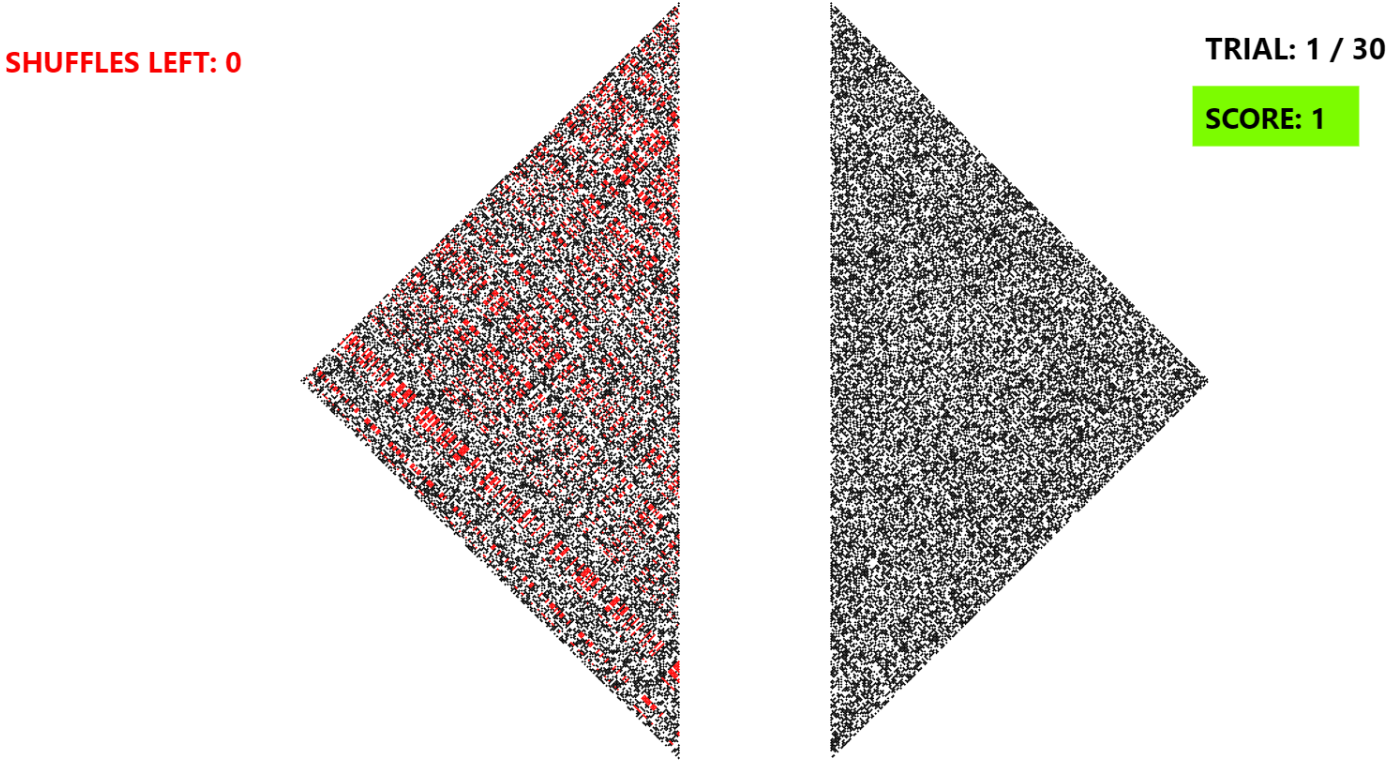
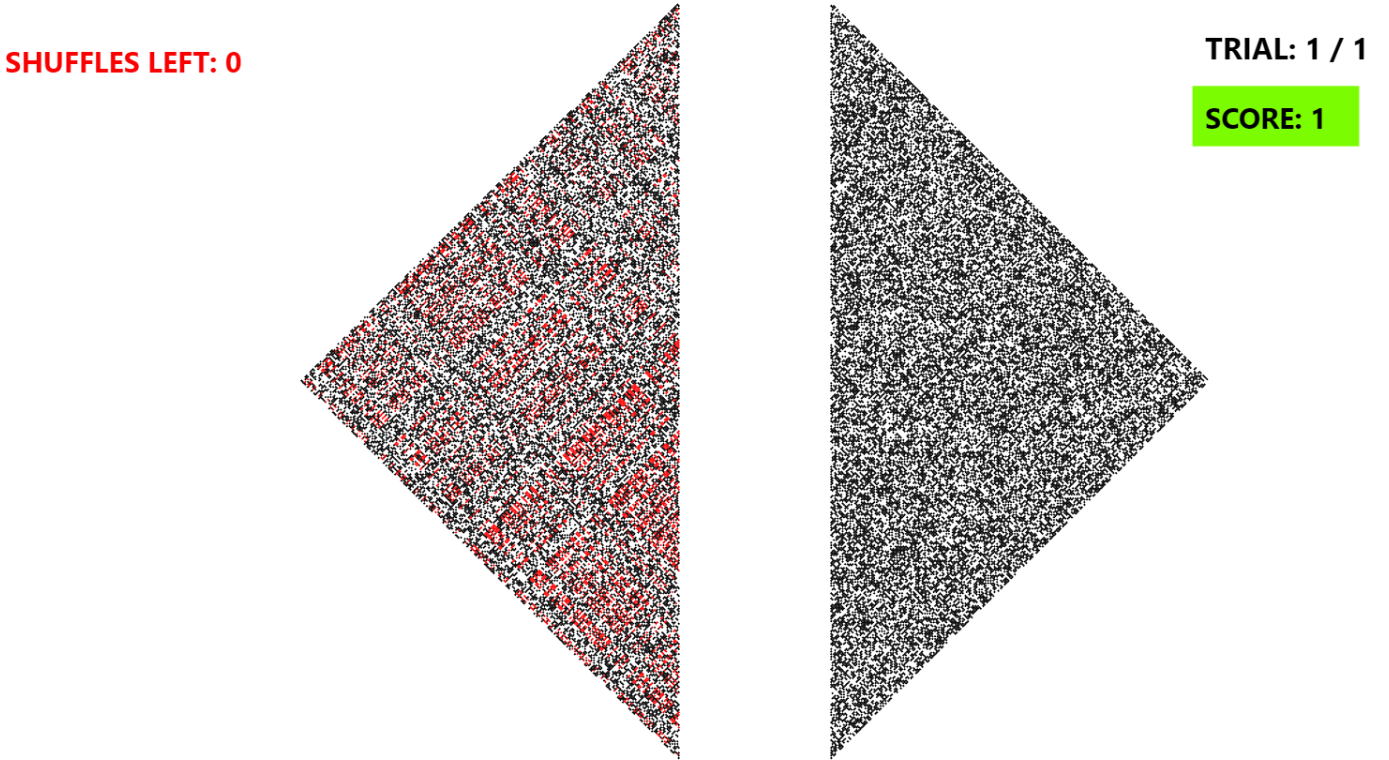
modified task familiarization II

Changed region(s): [[0.5882, 0.0, 0.8668, 0.9987], [0.2167, 0.0, 0.4953, 0.9987], [0.9597, 0.0303, 1.0, 0.0908]]

diff --git a/tutorial/tutorial_pages_generation.js b/tutorial/tutorial_pages_generation.js
@@ -179,71 +179,66 @@ let taskFamiliarizationObject_part2 = {
     In every group of four images:
     1: visualization trial n. 1 (image: 2 moves left; orange score)
     2: visualization trial n. 2 (image: 1 moves left; orange score)
-    3: choice trial (image: no move left; orange score)
-    4: solution trial (image: 0 move left; orange score; red clique)
-    5: feedback trial (image: 2 moves left; red/green score)
+    3: choice trial (image: no moves left; orange score)
+    4: feedback trial (image: 0 moves left; red/green score)
     */
 
     // with background information
     // N300_K120
-    1: ["During the real experiment, you will see the remaining <b>shuffles</b> on the top-left and your <b>score</b> on the top-right.<br> By pressing <b>space</b>, you use one shuffle.", "1_300_120_cliqueLeft_withFeedback_1"],
-    2: ["<b>Shuffles</b> will help you in the task, but you will only have 10 for each couple of graphs. If you run out of them, you will be forced to give an answer.<br> Press <b>space</b> again to use the last shuffle", "2_300_120_cliqueLeft_withFeedback_2"],
-    3: ["To indicate which of the triangles had the group of tiles,<br> Press the <b>left</b> or <b>right</b> arrow.", "3_300_120_cliqueLeft_withFeedback_3"],
-    4: ["As you can see, the <b>left</b> triangle contained the red tiles.<br> Press <b>space</b> to see the feedback for your response.", "4_300_120_cliqueLeft_withFeedback_solution"],
-    5: ["ArrowLeft", // correct answer: ArrowLeft
+    1: ["During the real experiment, you will see: the remaining <b>shuffles</b> on the top-left; the <b>trial counter</b> and your <b>score</b> on the top-right.<br> By pressing <b>space</b>, you use one shuffle.", "01_300_120_cliqueLeft_withFeedback_1"],
+    2: ["<b>Shuffles</b> will help you in the task, but will be limited. When you run out of them, you will be forced to give an answer.<br> Press <b>space</b> again to use the last shuffle of the trial.", "02_300_120_cliqueLeft_withFeedback_2"],
+    3: ["To indicate which of the triangles had the group of tiles,<br> Press the <b>left</b> or <b>right</b> arrow.", "03_300_120_cliqueLeft_withFeedback_3"],
+    4: ["ArrowLeft", // correct answer: ArrowLeft
         //PROMPT:
         //correct answer
-        "Since your answer was <b>correct</b>, the score has increased and has turned green.<br> Press <b>space</b> to try another example.",
+        "As you can see, the <b>left</b> triangle contained the red tiles. When your answer is <b>correct</b>, the score increases and turns green.<br> Press <b>space</b> to start a new example.",
         //wrong answer
-        "Since your answer was <b>wrong</b>, the score has not increased and has turned red.<br> Press <b>space</b> to try another example.",
+        "As you can see, the <b>left</b> triangle contained the red tiles. When your answer is <b>wrong</b>, the score does not increase and turns red.<br> Press <b>space</b> to start a new example.",
         //IMAGE:
         //correct answer
-        "5_300_120_cliqueLeft_withFeedback_correctAnswer",
+        "04_300_120_cliqueLeft_withFeedback_correct",
         //wrong answer
-        "5_300_120_cliqueLeft_withFeedback_wrongAnswer",
+        "04_300_120_cliqueLeft_withFeedback_wrong",
     ],
     // N300_K95
-    6: ["Let's re-set the remaining <b>shuffles</b> and the <b>score</b> to their initial values.<br> As we said, by pressing <b>space</b>, you use one shuffle.", "6_300_95_cliqueRight_withFeedback_1"],
-    7: ["Now you only have two <b>shuffles</b>, but in the real experiment you will have 10 shuffles for each couple of graphs.<br> Press <b>space</b> again to use the last shuffle.", "7_300_95_cliqueRight_withFeedback_2"],
-    8: ["When you have taken a decision, indicate which triangle contained the red tiles.<br> Press the <b>left</b> or <b>right</b> arrow to do so.", "8_300_95_cliqueRight_withFeedback_3"],
-    9: ["As you can see, the <b>right</b> triangle contained the red tiles.<br> Press <b>space</b> to see the feedback for your response.", "9_300_95_cliqueRight_withFeedback_solution"],
-    10: ["ArrowRight", // correct answer: ArrowRight
+    5: ["Let's re-set the remaining <b>shuffles</b> and the <b>score</b> to their initial values and colors.<br> As we said, by pressing <b>space</b>, you use one shuffle.", "05_300_95_cliqueRight_withFeedback_1"],
+    6: ["Now you only have <b>2 shuffles per trial</b>, but in the real experiment you will have <b>10</b>.<br> Press <b>space</b> again to use the last shuffle of the trial.", "06_300_95_cliqueRight_withFeedback_2"],
+    7: ["When you have taken a decision, indicate which triangle contained the red tiles.<br> Press the <b>left</b> or <b>right</b> arrow to do so.", "07_300_95_cliqueRight_withFeedback_3"],
+    8: ["ArrowRight", // correct answer: ArrowRight
         //PROMPT:
         //correct answer
-        "Since your answer was <b>correct</b>, the score has increased and has turned green.<br> Press <b>space</b> to try one last example.",
+        "In this case, the <b>right</b> triangle contained the red tiles. When your answer is <b>correct</b>, the score increases and turns green.<br> Press <b>space</b> to start the last example.",
         //wrong answer
-        "Since your answer was <b>wrong</b>, the score has not increased and has turned red.<br> Press <b>space</b> to try one last example.",
+        "In this case, the <b>right</b> triangle contained the red tiles. When your answer is <b>wrong</b>, the score does not increase turns red.<br> Press <b>space</b> to start the last example.",
         //IMAGE:
         //correct answer
-        "10_300_95_cliqueRight_withFeedback_correctAnswer",
+        "08_300_95_cliqueRight_withFeedback_correct",
         //wrong answer
-        "10_300_95_cliqueRight_withFeedback_wrongAnswer",
+        "08_300_95_cliqueRight_withFeedback_wrong",
     ],
     // N300_K100
-    11: ["This is the last example before the real experiment starts. Same as before: <b>shuffles</b> on the top left, score on the top right.<br> Press <b>space</b> to use one shuffle.", "11_300_100_cliqueLeft_withFeedback_1"],
-    12: ["As you <b>shuffle</b> the triangles, try to identify which one had the group of red tiles.<br> Press <b>space</b> again to use the last shuffle", "12_300_100_cliqueLeft_withFeedback_2"],
-    13: ["When you are ready to indicate which of the triangles had the group of tiles,<br> Press the <b>left</b> or <b>right</b> arrow.", "13_300_100_cliqueLeft_withFeedback_3"],
-    14: ["In this case, the <b>left</b> triangle contained the red tiles.<br> Press <b>space</b> to see the feedback for your response.", "14_300_100_cliqueLeft_solution"],
-    15: ["ArrowLeft", // correct answer: ArrowLeft
+    9: ["This is the last example. Same as before: <b>shuffles</b> on the top left, <b>trial counter</b> and <b>score</b> on the top right.<br> Press <b>space</b> to use one shuffle.", "09_300_100_cliqueLeft_withFeedback_1"],
+    10: ["As you <b>shuffle</b> the triangles, try to identify which one had the group of red tiles.<br> Press <b>space</b> again to use the last shuffle of the trial.", "10_300_100_cliqueLeft_withFeedback_2"],
+    11: ["When you are ready to indicate which of the triangles had the group of tiles,<br> Press the <b>left</b> or <b>right</b> arrow.", "11_300_100_cliqueLeft_withFeedback_3"],
+    12: ["ArrowLeft", // correct answer: ArrowLeft
         //PROMPT:
         //correct answer
-        "Since your answer was <b>correct</b>, the score has increased and has turned green.<br> Press <b>space</b> to end the trial run of the experiment.",
+        "In this case, the <b>left</b> triangle contained the red tiles. When your answer is <b>correct</b>, the score increases and turns green.<br> Press <b>space</b> to end the trial run of the experiment.",
         //wrong answer
-        "Since your answer was <b>wrong</b>, the score has not increased and has turned red.<br> Press <b>space</b> to end the trial run of the experiment.",
+        "In this case, the <b>left</b> triangle contained the red tiles. When your answer is <b>wrong</b>, the score does not increase and turns red.<br> Press <b>space</b> to end the trial run of the experiment.",
         //IMAGE:
         //correct answer
-        "15_300_100_cliqueLeft_correctAnswer",
+        "12_300_100_cliqueLeft_withFeedback_correct",
         //wrong answer
-        "15_300_100_cliqueLeft_wrongAnswer",
+        "12_300_100_cliqueLeft_withFeedback_wrong",
     ]
-
 }
 
 
 // FUNCTION THAT GENERATES THE FAMILIARIZATION TRIALS FOR PART 1 AND PART 2 (all except feedback trial, added from main)
 function generateBlockOfFamiliarizationTrials(part, index, taskFamiliarizationObject) {
     /* INPUT:
-    - part: identifies if the familiarization trials are produced for part 1 (3 trials for each block) or 2 (4 trials for each block)
+    - part: identifies if the familiarization trials are produced for part 1 or 2
     - index: identifies the number of the block of trials (first call: trials 1-3 (part 1) / 1-4 (part 2); second call: trials 5-7 (part 1) / 6...)
     - taskFamiliarizationObject: taskFamiliarizationObject_part1/_part2
 
@@ -283,17 +278,6 @@ function generateBlockOfFamiliarizationTrials(part, index, taskFamiliarizationOb
     };
     currentBlockOfTrialsArray.push(choice_trial)
 
-    // if function is called for part 2, the solution trial has to be added to the array
-    if (part == 2) {
-        let solution_trial = {
-            type: jsPsychImageKeyboardResponse,
-            stimulus: `tutorial/task_familiarization_images/part ${part}/${taskFamiliarizationObject[index + 4][1]}.PNG`,
-            prompt: `<br><br><br> ${taskFamiliarizationObject[index + 4][0]}`,
-            choices: [' '],
-            stimulus_height: currentExperiment.canvasDimensions[0] / 1.6,
-        };
-        currentBlockOfTrialsArray.push(solution_trial)
-    }
     //returning the array 
     return currentBlockOfTrialsArray
 }

diff --git a/index.html b/index.html
@@ -113,7 +113,6 @@
 
 
         /* INTRODUCTIVE PAGES */
-        /*
         // showing informative pages about the study (informed consent, aim, privacy)
         let introduction = {
             type: jsPsychInstructions,
@@ -125,7 +124,6 @@
 
 
         /* INSTRUCTIONS */
-        /*
         // PRELOADING instructions images:
         // calling function to create filepaths for all instructions images
         let instructions_ImagesArray = createArrayOfFilePaths(instructionsObject, 0)
@@ -147,7 +145,6 @@
 
 
         /* AGREEMENT TO MOVE TO TASK FAMILIARIZATION */
-        /*
         let move_to_familiarization_form = {
             type: jsPsychInstructions,
             pages: [`<p> Now it's your turn! <br>
@@ -161,7 +158,6 @@
 
 
         /* TASK FAMILIARIZATION */
-        /*
         // PART 1: WITHOUT BACKGROUND INFORMATION
         // PRELOADING images:
         // calling function to create filepaths for all images
@@ -223,10 +219,10 @@
         timeline.push(preloadTaskFamiliarization2)
 
         // creating the trials for the second part of the task familiarization        
-        for (let index = 0; index < Object.keys(taskFamiliarizationObject_part2).length; index += 5) {
-            // NB: index increases by 5 at every iteration
+        for (let index = 0; index < Object.keys(taskFamiliarizationObject_part2).length; index += 4) {
+            // NB: index increases by 4 at every iteration
 
-            // calling function that generates an array containing a single block of 4 trials (visualization 1, visualization 2, choice, solution)
+            // calling function that generates an array containing a single block of 3 trials (visualization 1, visualization 2, choice)
             let currentBlockOfTrialsArray_part2 = generateBlockOfFamiliarizationTrials(2, index, taskFamiliarizationObject_part2)
 
             // creating the feedback trial and adding it to the array
@@ -241,14 +237,15 @@
                 on_start: (function (index) {
                     return function (currentFeedbackTrial) {
                         // accessing second to last trial:
-                        let second_to_last_trial = jsPsych.data.get().last(2).values()[0];
+                        let second_to_last_trial = jsPsych.data.get().last(1).values()[0];
+                        console.log(second_to_last_trial)
                         // changing prompt according to correctness of last choice:
-                        if (second_to_last_trial.response == taskFamiliarizationObject_part2[index + 5][0].toLowerCase()) {
-                            currentFeedbackTrial.stimulus = `tutorial/task_familiarization_images/part 2/${taskFamiliarizationObject_part2[index + 5][3]}.PNG`;
-                            currentFeedbackTrial.prompt = `<br><br><br> ${taskFamiliarizationObject_part2[index + 5][1]}`;
+                        if (second_to_last_trial.response == taskFamiliarizationObject_part2[index + 4][0].toLowerCase()) {
+                            currentFeedbackTrial.stimulus = `tutorial/task_familiarization_images/part 2/${taskFamiliarizationObject_part2[index + 4][3]}.PNG`;
+                            currentFeedbackTrial.prompt = `<br><br><br> ${taskFamiliarizationObject_part2[index + 4][1]}`;
                         } else {
-                            currentFeedbackTrial.stimulus = `tutorial/task_familiarization_images/part 2/${taskFamiliarizationObject_part2[index + 5][4]}.PNG`;
-                            currentFeedbackTrial.prompt = `<br><br><br> ${taskFamiliarizationObject_part2[index + 5][2]}`;
+                            currentFeedbackTrial.stimulus = `tutorial/task_familiarization_images/part 2/${taskFamiliarizationObject_part2[index + 4][4]}.PNG`;
+                            currentFeedbackTrial.prompt = `<br><br><br> ${taskFamiliarizationObject_part2[index + 4][2]}`;
                         }
                     };
                 })(index)
@@ -264,7 +261,6 @@
 
 
         /* AGREEMENT TO START EXPERIMENT */
-        /*
         // informing that the experiment will start and subject agrees
         // POSSIBLE IMPROVEMENT: use external-HTML plugin (with "agreement_page.html"), so that it is possible to use checkbox and check agreement with a function (alert if clicking something else)
         let consent_form = {

diff --git a/tutorial/task_familiarization_images/generation scripts/2 with background/final_task_simulation_with_feedback_cliqueRight.html b/tutorial/task_familiarization_images/generation scripts/2 with background/final_task_simulation_with_feedback_cliqueRight.html
@@ -300,7 +300,7 @@
 
                 // TRIAL NUMBER (right side of screen):
                 //creating string to be displayed as feedback:
-                let feedbackStringTrials = "TRIAL: " + 1 + " / " + 30
+                let feedbackStringTrials = "TRIAL: " + 1 + " / " + 1
                 // text on the canvas:
                 ctx.fillStyle = "black"
                 ctx.font = "bold 2rem system-ui";
@@ -329,7 +329,7 @@
 
                 // MOVES:
                 //creating string to be displayed as feedback:
-                let movesLeft = "0" // TO CHANGE
+                let movesLeft = "1" // TO CHANGE
                 let feedbackStringMoves = "SHUFFLES LEFT: " + movesLeft
                 // text on canvas (increasing red hue when the remaining randomizations decrease. No randomization requested -> black; no randomizations left -> red ):
                 if (movesLeft == "2") {

diff --git a/tutorial/task_familiarization_images/generation scripts/2 with background/final_task_simulation_with_feedback_cliqueLeft.html b/tutorial/task_familiarization_images/generation scripts/2 with background/final_task_simulation_with_feedback_cliqueLeft.html
@@ -298,7 +298,7 @@
 
                 // TRIAL NUMBER (right side of screen):
                 //creating string to be displayed as feedback:
-                let feedbackStringTrials = "TRIAL: " + 1 + " / " + 30
+                let feedbackStringTrials = "TRIAL: " + 1 + " / " + 1
                 // text on the canvas:
                 ctx.fillStyle = "black"
                 ctx.font = "bold 2rem system-ui";
